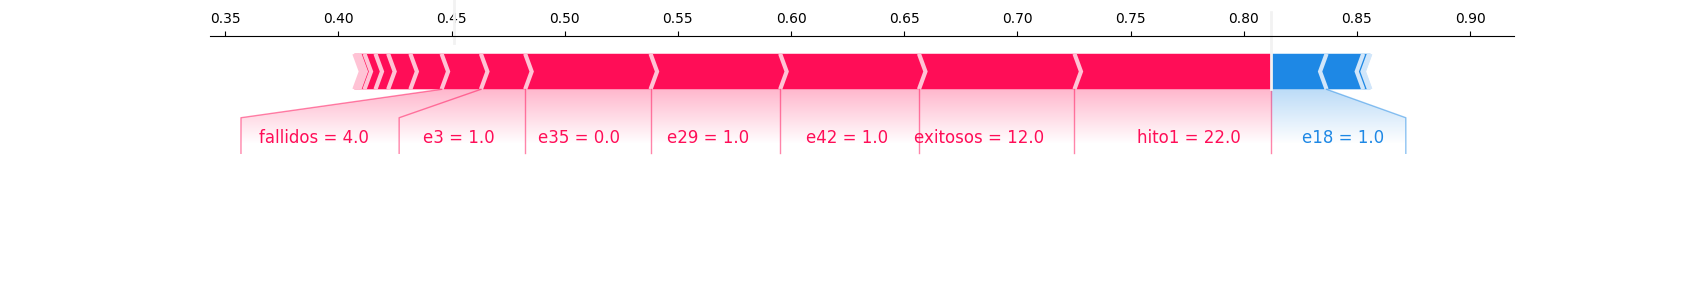
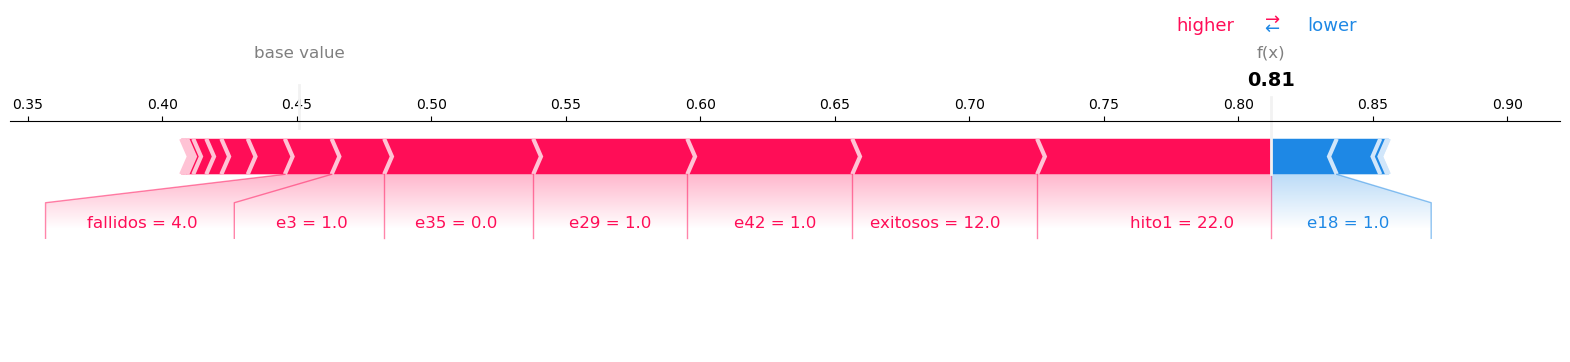
actualizaciones varias del latex

diff --git a/LaTeX/lib_/analisis_shap.tex b/LaTeX/lib_/analisis_shap.tex
@@ -1,0 +1,77 @@
+\subsection{Analisis SHAP}
+
+Luego de la investigacion realizada en la comparacion de algoritmos realizado y que nos arrojara que el mejor modelo de clasificacion es RandomForestClassifier y de regreseion es LinearRegression, los cuales revisaremos sus resultados.
+
+\subsubsection{Analisis Mejor Modelo Clasificación RandomForestClassifier}
+Entrenamiento:
+
+Preparando las coordenadas de análisis X/Y, donde utilizaremos la columna 'aprobado' (binario obtenida de sol1 donde 1 es equivale aprobado con un una nota mayor o igual 4) como referencia para el eje Y, y analizaremos el comportamiento de las demás columnas en relación a dicho eje X.
+
+para comprender mejor los graficos que veremos a continuacion es necesario comprender lo siguiente:
+\say{higher} se refiere a las instancias que tienen valores más altos de la característica en comparación con otras instancias, y tienen un mayor impacto en la probabilidad de ser \say{aprobado}. Por otro lado, \say{lower} se refiere a las instancias con valores más bajos de la característica, que tienen un menor impacto en la probabilidad de ser \say{aprobado}.
+
+\begin{figure}[H]
+    \centering
+    \includegraphics[width=6.0611in,height=6.6861in]{img/shap_rf/shapForcePlot2.png}
+    \caption{Característica Variables SHAP}
+    \label{fig:caract_var_shap}
+\end{figure}
+
+Podemos observar de forma breve que:
+
+\say{hito1} tiene un alto impacto positivo acompañado de 
+la pregunta de la guia \say{e29} tambien es una variable de interes de estudio, \say{exitosos} como \say{fallidos} tambien son variables muy interesantes de analisar, ya que estan correlacionadas con la intencion de resolver la guia.
+
+por otro lado tenemos la figura de matplotlib
+
+\begin{figure}[H]
+    \centering
+    \includegraphics[width=6.0611in,height=1.6861in]{img/shap_rf/shapForcePlot.png}
+    \caption{Característica Variables SHAP matplotlib}
+    \label{fig:caract_var_shap_mat}
+\end{figure}
+
+Al revisar el grafico generado por matplotlib podemos ver:
++ hito1: con un 22.0 cumplido, tiene un 75\%  aproximandamente de importancia.
++ exitosos: tiene 12 respuestas y aproximadamente un 67\% de importancia.
++ e42: La variable tiene una respuesta de 1.0 en la pregunta de la guía y aproximadamente un 59\% de importancia.
++ e29: La variable tiene una respuesta de 1.0 en la pregunta de la guía y aproximadamente un 54\% de importancia.
++ e35: La variable tiene una respuesta de 1.0 en la pregunta de la guía y aproximadamente un 47\% de importancia.
++ e3: La variable tiene una respuesta de 1.0 en la pregunta de la guía y aproximadamente un 46\% de importancia.
++ fallidos: La variable tiene 4.0 intentos para lograr el éxito en la pregunta y aproximadamente un 49\% de importancia.
+
+El impacto más bajo lo presenta la variable \say{e18}, con una respuesta de 1.0 en la pregunta de la guía y una importancia aproximada del 81\% al 85\%.
+
+La marca \say{f(x)} en el gráfico representa el valor de predicción del modelo. En este caso, el valor es 0.81
+
+Graficos de dependencia:
+
+Representa la relación entre los valores de la variable \say{hito1}, say{e29}, say{exitosos},\say{fallidos}, \say{e42} y los valores de Shapley en el modelo. Proporciona una visualización de cómo las variable en cuestion influye en las predicciones del modelo y ayuda a entender su importancia relativa.
+
+\begin{figure}[H]
+    \centering
+    \includegraphics[width=4.0611in,height=2.6861in]{img/shap_rf/hito1.png}
+    \caption{Variable dependencia hito1}
+    \label{fig:dependencia_hito1}
+\end{figure}
+
+\begin{figure}[H]
+    \centering
+    \includegraphics[width=4.0611in,height=2.6861in]{img/shap_rf/e29.png}
+    \caption{Variable dependencia e29}
+    \label{fig:dependencia_e29}
+\end{figure}
+
+\begin{figure}[H]
+    \centering
+    \includegraphics[width=4.0611in,height=2.6861in]{img/shap_rf/exitosos.png}
+    \caption{Variable dependencia exitosos}
+    \label{fig:dependencia_exitosos}
+\end{figure}
+
+\begin{figure}[H]
+    \centering
+    \includegraphics[width=4.0611in,height=2.6861in]{img/shap_rf/fallidos.png}
+    \caption{Variable dependencia fallidos}
+    \label{fig:dependencia_fallidos}
+\end{figure}

diff --git a/LaTeX/lib_/metodologia.tex b/LaTeX/lib_/metodologia.tex
@@ -64,7 +64,27 @@ Al combinar el enfoque cuantitativo con XAI y SHAP, esta investigación pretende
 
 \subsection{Modelos de Clasificación}
 
-En esta sección, se presentan los modelos de clasificación que serán utilizados en el estudio. Se explicará cada modelo en su respectiva subsubsección, incluyendo una descripción general y sus características principales.
+En esta sección, presentamos los modelos de clasificación que se utilizarán en el estudio para comparar algoritmos. Cada modelo será explicado en su respectiva subsubsección, incluyendo una descripción general y sus características principales.
+
+\subsubsection{Comparar Algoritmos}
+
+La comparación de algoritmos es un proceso fundamental en el campo de la clasificación, ya que nos permite evaluar y seleccionar el algoritmo más adecuado para un problema específico. En esta subsección, exploraremos diferentes algoritmos de clasificación y analizaremos sus fortalezas y debilidades.
+
+Utilizaremos un enfoque basado en un mapa mental para visualizar y organizar la información relacionada con la comparación de algoritmos. En la Figura \ref{fig:mindMap_comparaAlgoritmos} se muestra un ejemplo de un mapa mental que nos ayudará a comprender y analizar los distintos aspectos de cada algoritmo.
+
+
+\begin{figure}[H]
+  \centering
+  \includegraphics[width=6.06111in,height=2.68611in]{img/compara_algoritmos/comparaAlgoritmoCompletoMindMap.png}
+  \caption{Mind Map de comparador de algoritmos}
+  \label{fig:mindMap_comparaAlgoritmos}
+\end{figure}
+
+Al comparar los algoritmos, tendremos en cuenta diversos criterios, como la precisión, el tiempo de entrenamiento, la escalabilidad y la interpretabilidad, entre otros. Estos criterios nos permitirán evaluar y seleccionar el algoritmo más adecuado para nuestro estudio.
+
+En las subsubsecciones siguientes, exploraremos en detalle cada uno de los modelos de clasificación seleccionados y analizaremos cómo se desempeñan en diferentes escenarios. Con esta información, podremos tomar decisiones informadas sobre qué algoritmo utilizar en nuestro estudio y comprender mejor su impacto en los resultados obtenidos.
+
+Con esta introducción, hemos establecido el contexto para explorar los modelos de clasificación y su comparación. A continuación, nos sumergiremos en cada uno de los modelos para comprender sus características y aplicaciones.
 
 \subsubsection{DecisionTreeClassifier}
 

diff --git a/LaTeX/lib_/compara_algoritmos.tex b/LaTeX/lib_/compara_algoritmos.tex
@@ -17,7 +17,7 @@ La mejor configuración para los modelos de clasificación se muestra en la Figu
 
 \begin{figure}[H]
     \centering
-    \includegraphics[width=6.06111in,height=2.68611in]{img/compara_algoritmos/configModelsClasificacion.png}
+    \includegraphics[width=6.0611in,height=2.6861in]{img/compara_algoritmos/configModelsClasificacion.png}
     \caption{Configuración de los modelos de clasificación}
     \label{fig:config_clasifiacion}
 \end{figure}

diff --git a/LaTeX/main.tex b/LaTeX/main.tex
@@ -25,6 +25,7 @@
 \usepackage{tocloft}
 \usepackage{float}
 \usepackage{dirtytalk}
+\usepackage{verbatim}
 %%%%%%%%%%%%%%%%%%%%%%%%%%%%%%%%%%%%%%%%%%%%%%%%%%%%%%%%%%%%%%%%%%%%%%%%%%%%%%%
 
 % Other Settings

diff --git a/LaTeX/lib_/body.tex b/LaTeX/lib_/body.tex
@@ -26,4 +26,6 @@
 
 \input{lib_/compara_algoritmos.tex}
 
+\input{lib_/analisis_shap.tex}
+
 \input{lib_/conclusiones.tex}
